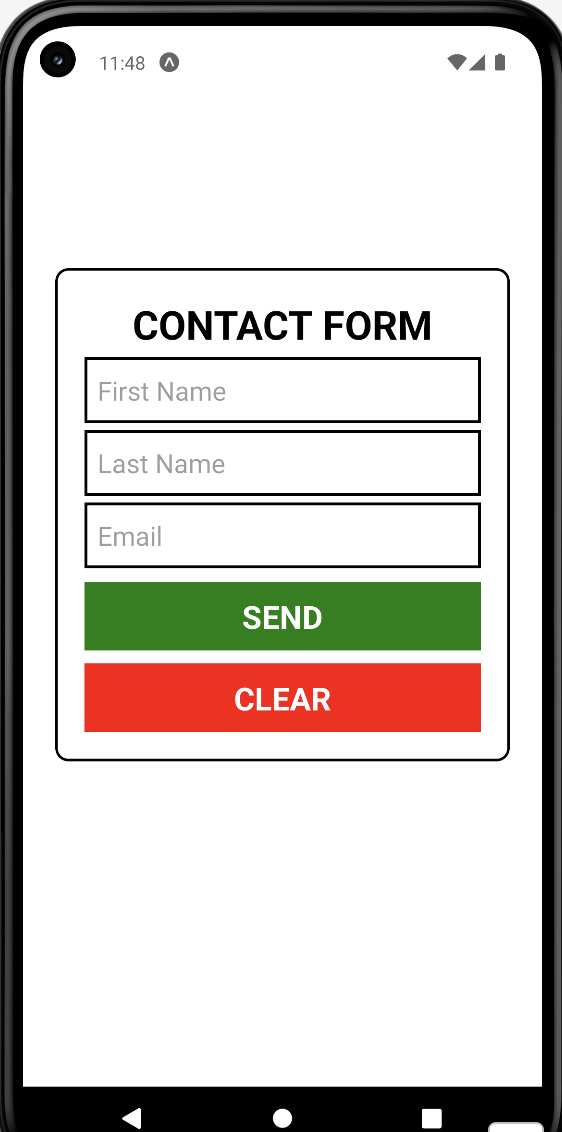
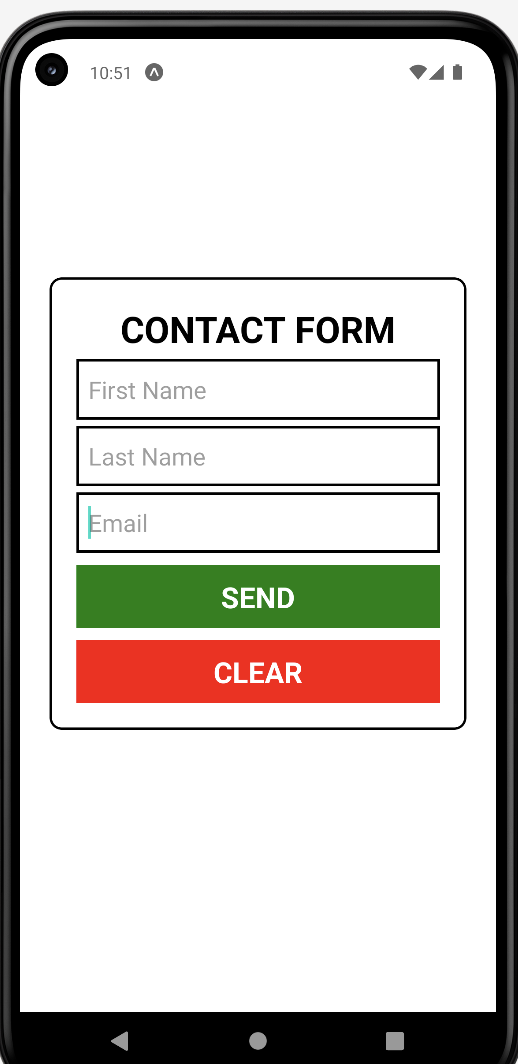
Output printed on Alert menu

Changed region(s): [[0.0927, 0.2171, 0.9266, 0.6823], [0.0, 0.0, 1.0, 1.0], [0.0, 0.9925, 0.0309, 1.0]]

diff --git a/App.js b/App.js
@@ -4,7 +4,7 @@
  */
 
 import React from 'react';
-import {View, SafeAreaView, StyleSheet, TextInput, Text, Button, TouchableOpacity} from 'react-native';
+import {View, SafeAreaView, StyleSheet, TextInput, Text, Alert, TouchableOpacity} from 'react-native';
 
 export default function App() {
     const [firstNameValue, onChangeFirstName] = React.useState('');
@@ -23,6 +23,7 @@ export default function App() {
     // Send button function
     function onClickSendButton() {
         setOutput(firstNameValue + '\n' + lastNameValue + '\n' + emailValue);
+        Alert.alert(firstNameValue + '\n' + lastNameValue + '\n' + emailValue);
     };
 
     return (
@@ -69,7 +70,7 @@ export default function App() {
             <Text>{'\n'}</Text>
 
             {/* Output */}
-            <Text style = {{fontSize: 20}}>{output}</Text>
+            {/* <Text style = {{fontSize: 20}}>{output}</Text> */}
         </SafeAreaView>
     );
 };
